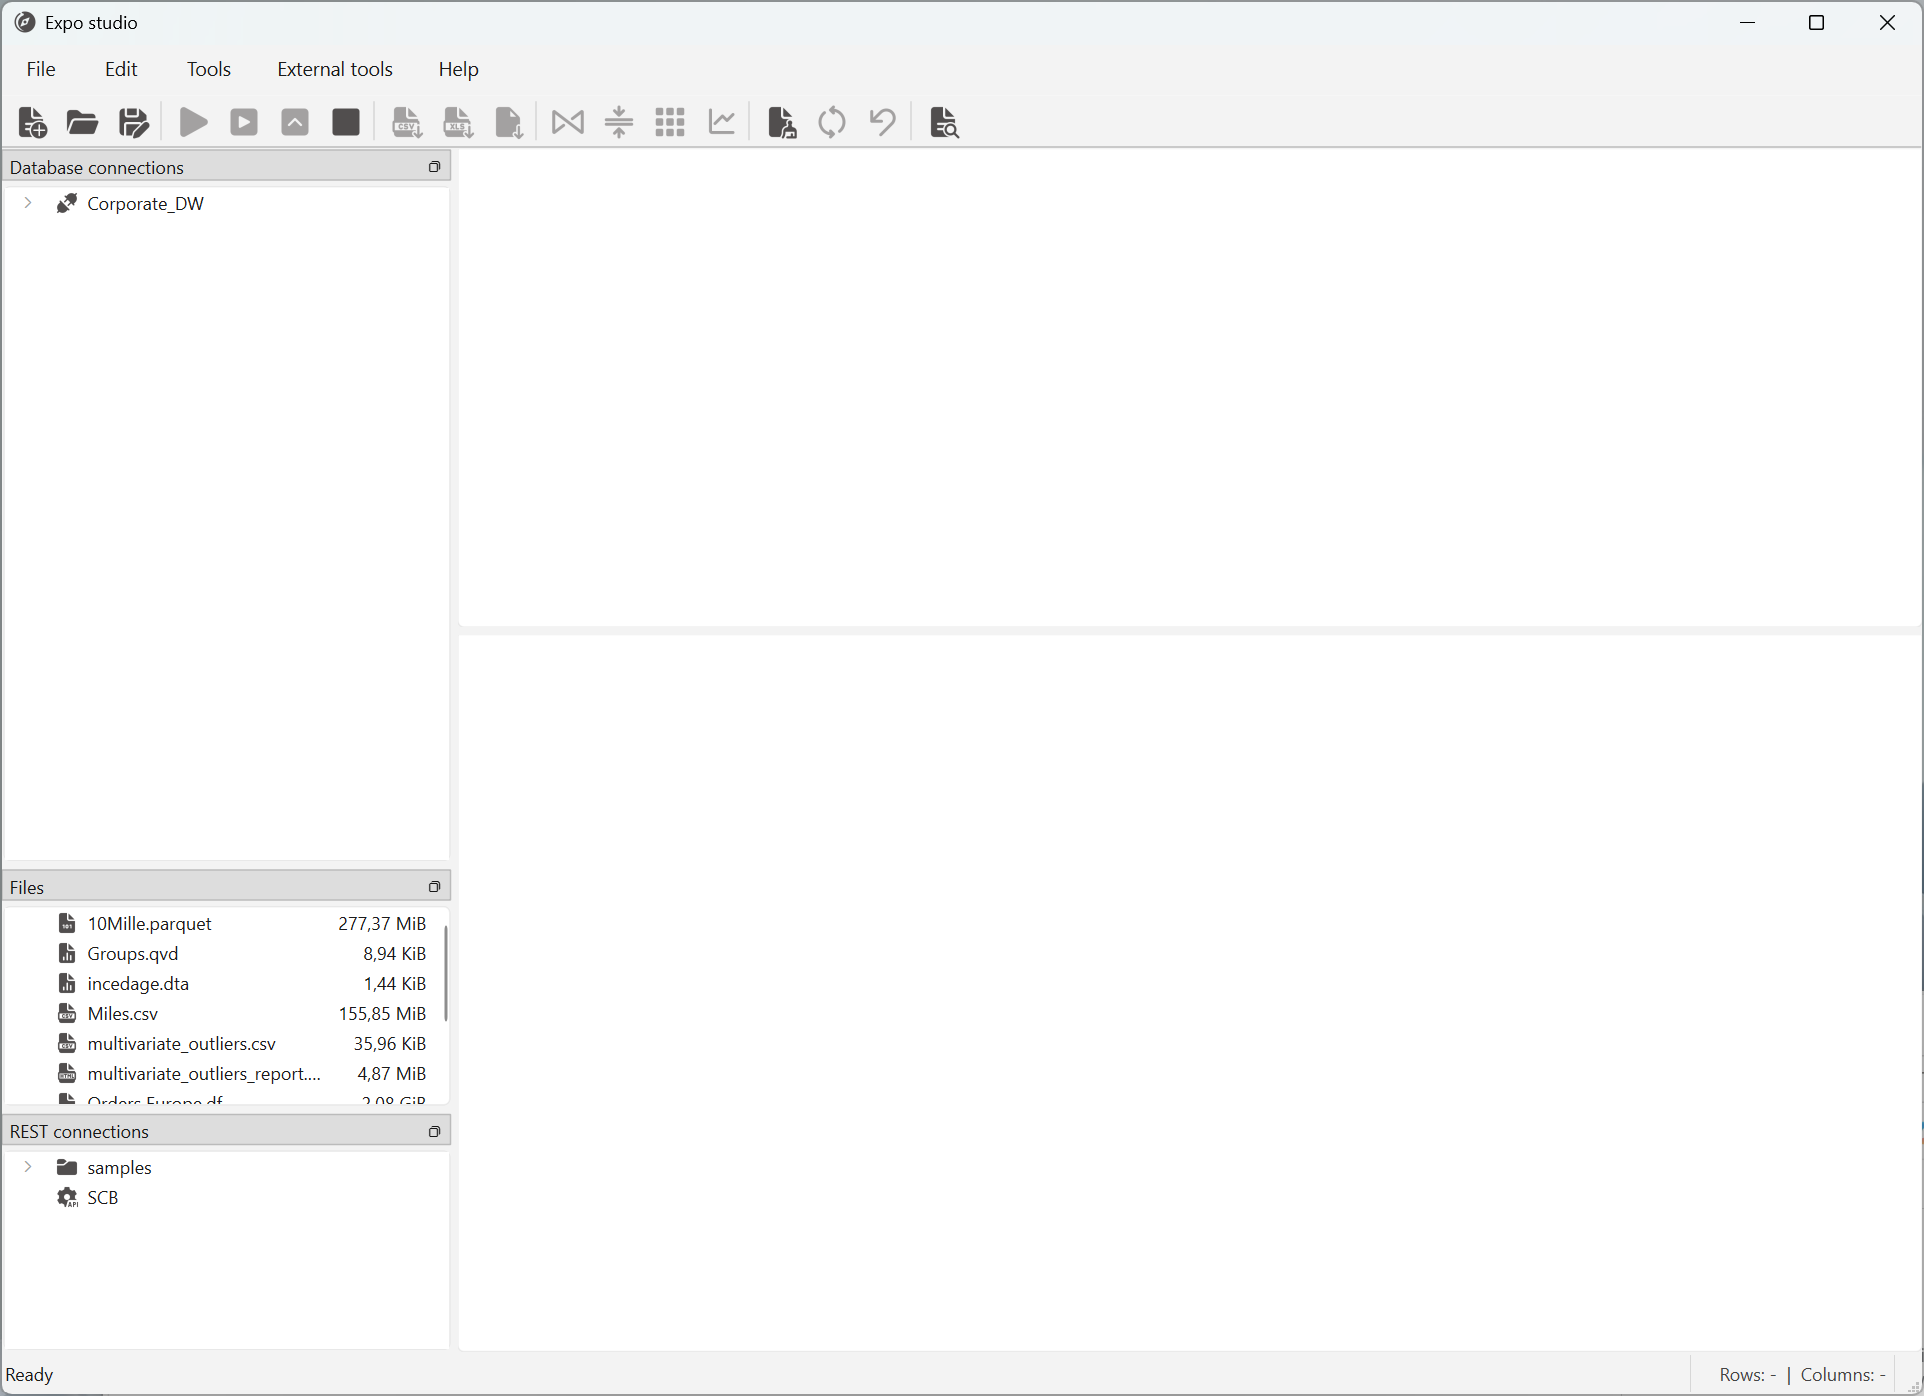
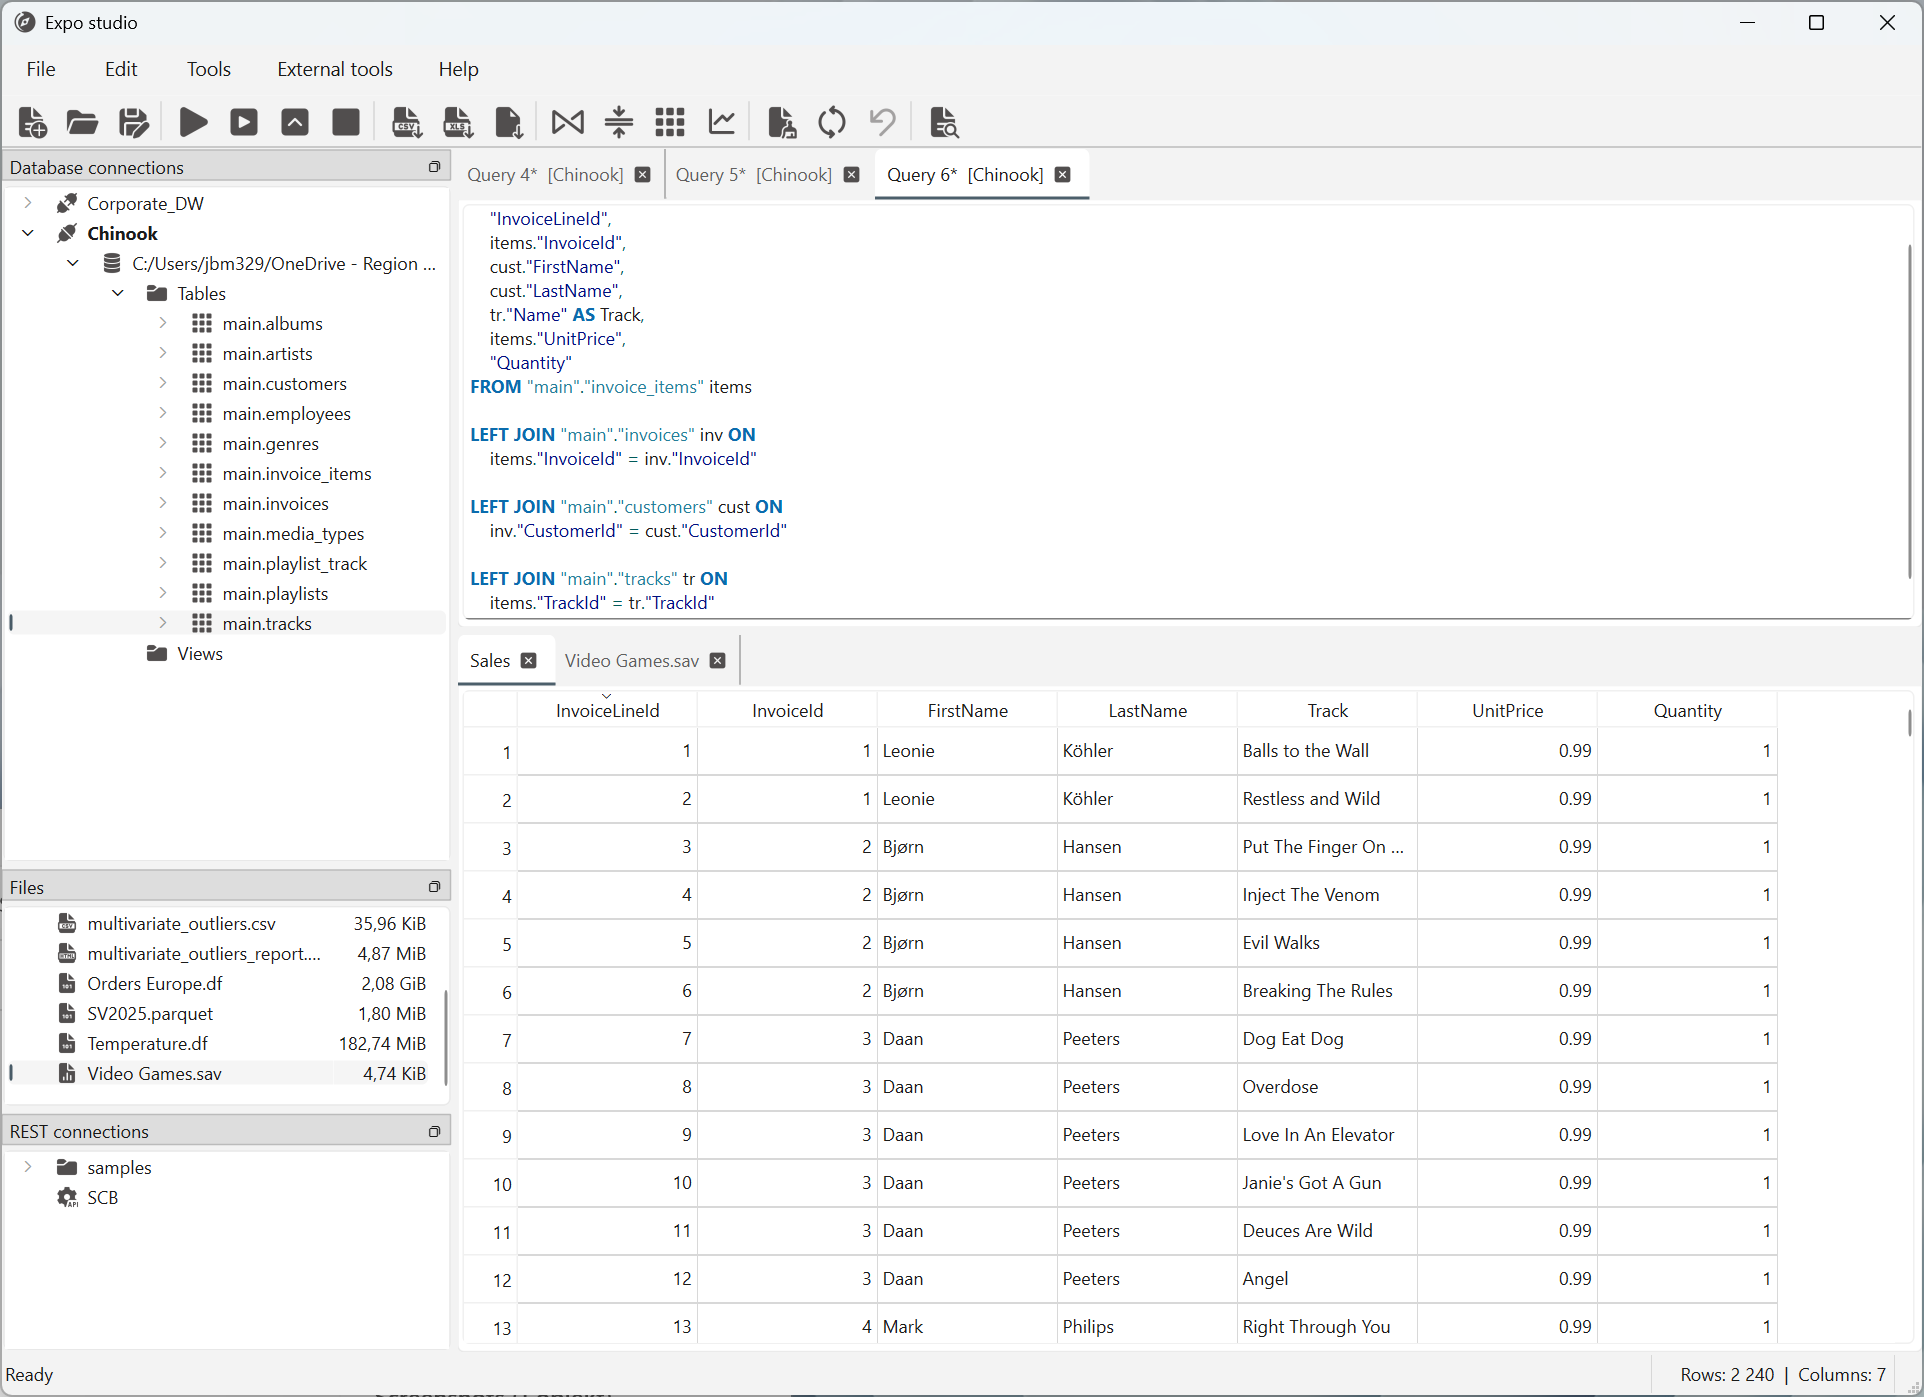
docs: update workbench screenshot

diff --git a/docs/workbench/index.md b/docs/workbench/index.md
@@ -9,11 +9,11 @@ Use this page to orient yourself; task-specific instructions live in the
 
 ## Find your way around {#window-layout}
 
-![Expo Studio workbench with menus and toolbar at the top, three source panels on the left, empty editor and result areas on the right, and a status bar at the bottom.](../assets/workbench/main_window.png)
+![Expo Studio workbench with an expanded database tree, file list and REST connections on the left, SQL editor tabs and query text above result tabs and a data grid, and a status bar at the bottom.](../assets/workbench/main_window.png)
 
-*The workbench before any editor or result tabs are open. The upper blank area
-is for SQL editor tabs; the lower blank area is for result datasets. Connection
-names and files depend on your configuration.*
+*A populated workbench with configured sources, multiple SQL editor tabs and
+result tabs open. Connection names, files and displayed data depend on your
+configuration.*
 
 | Area | Where to find it | Purpose |
 |---|---|---|
